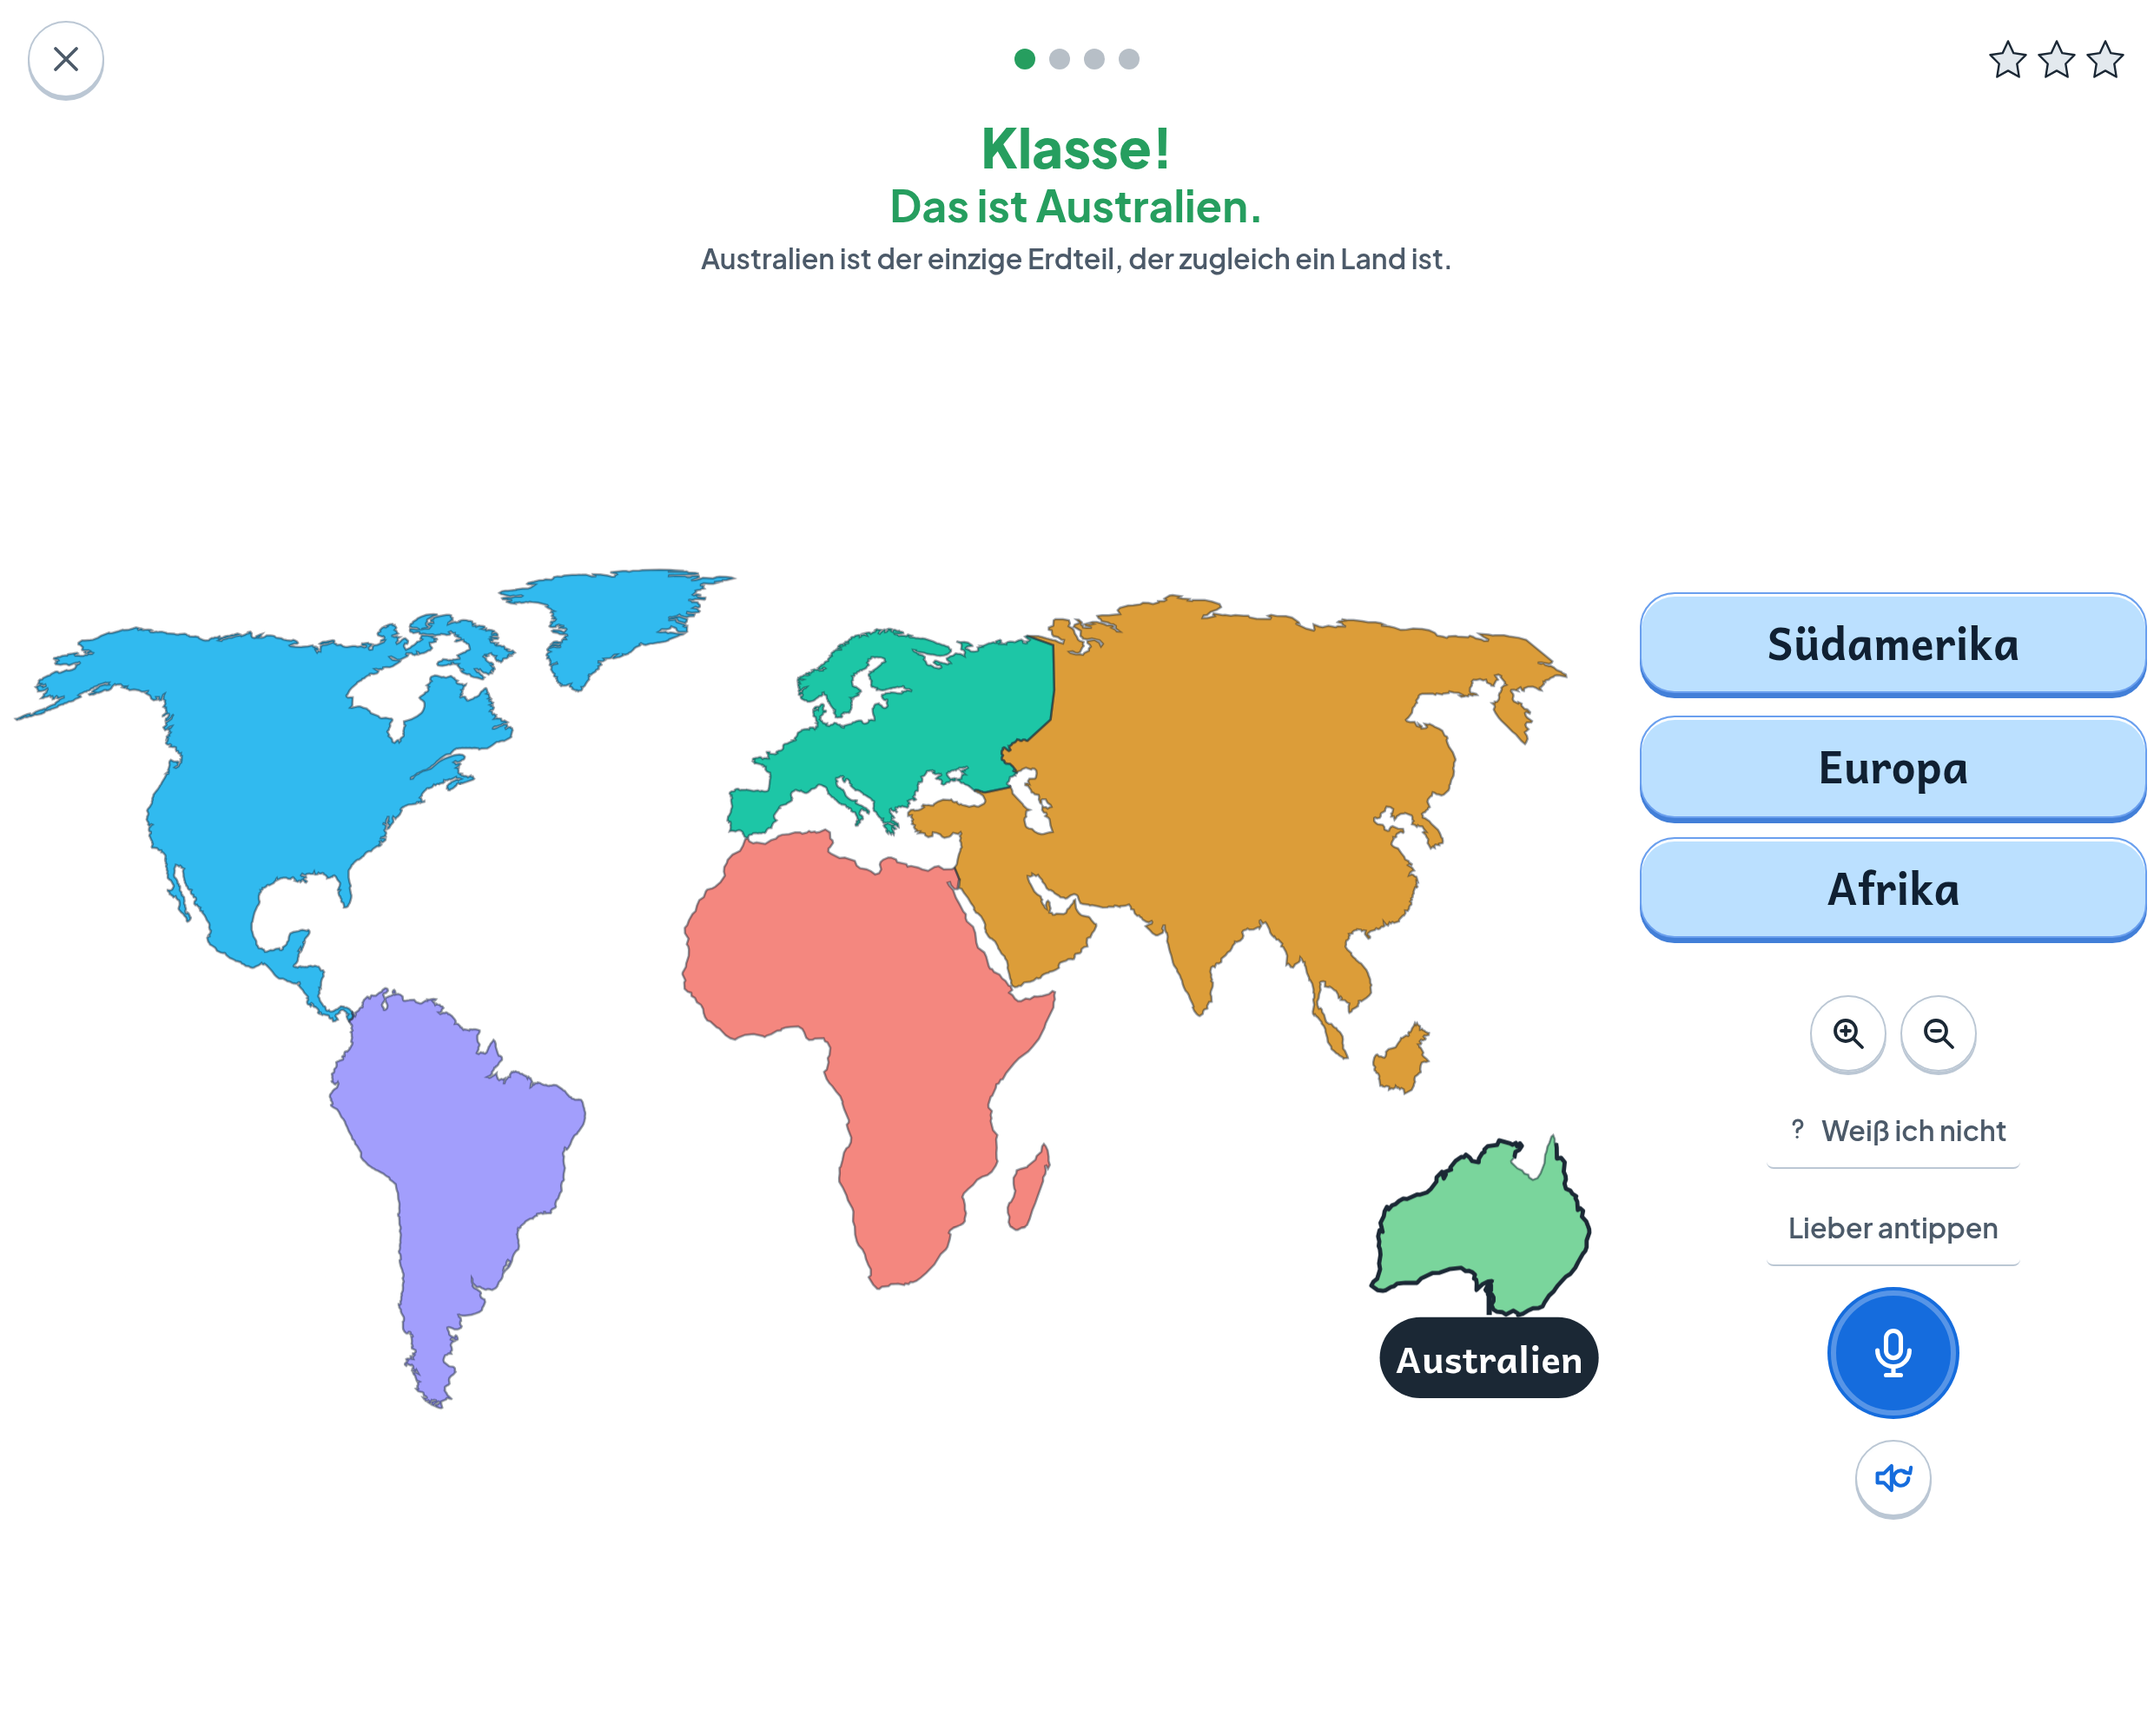
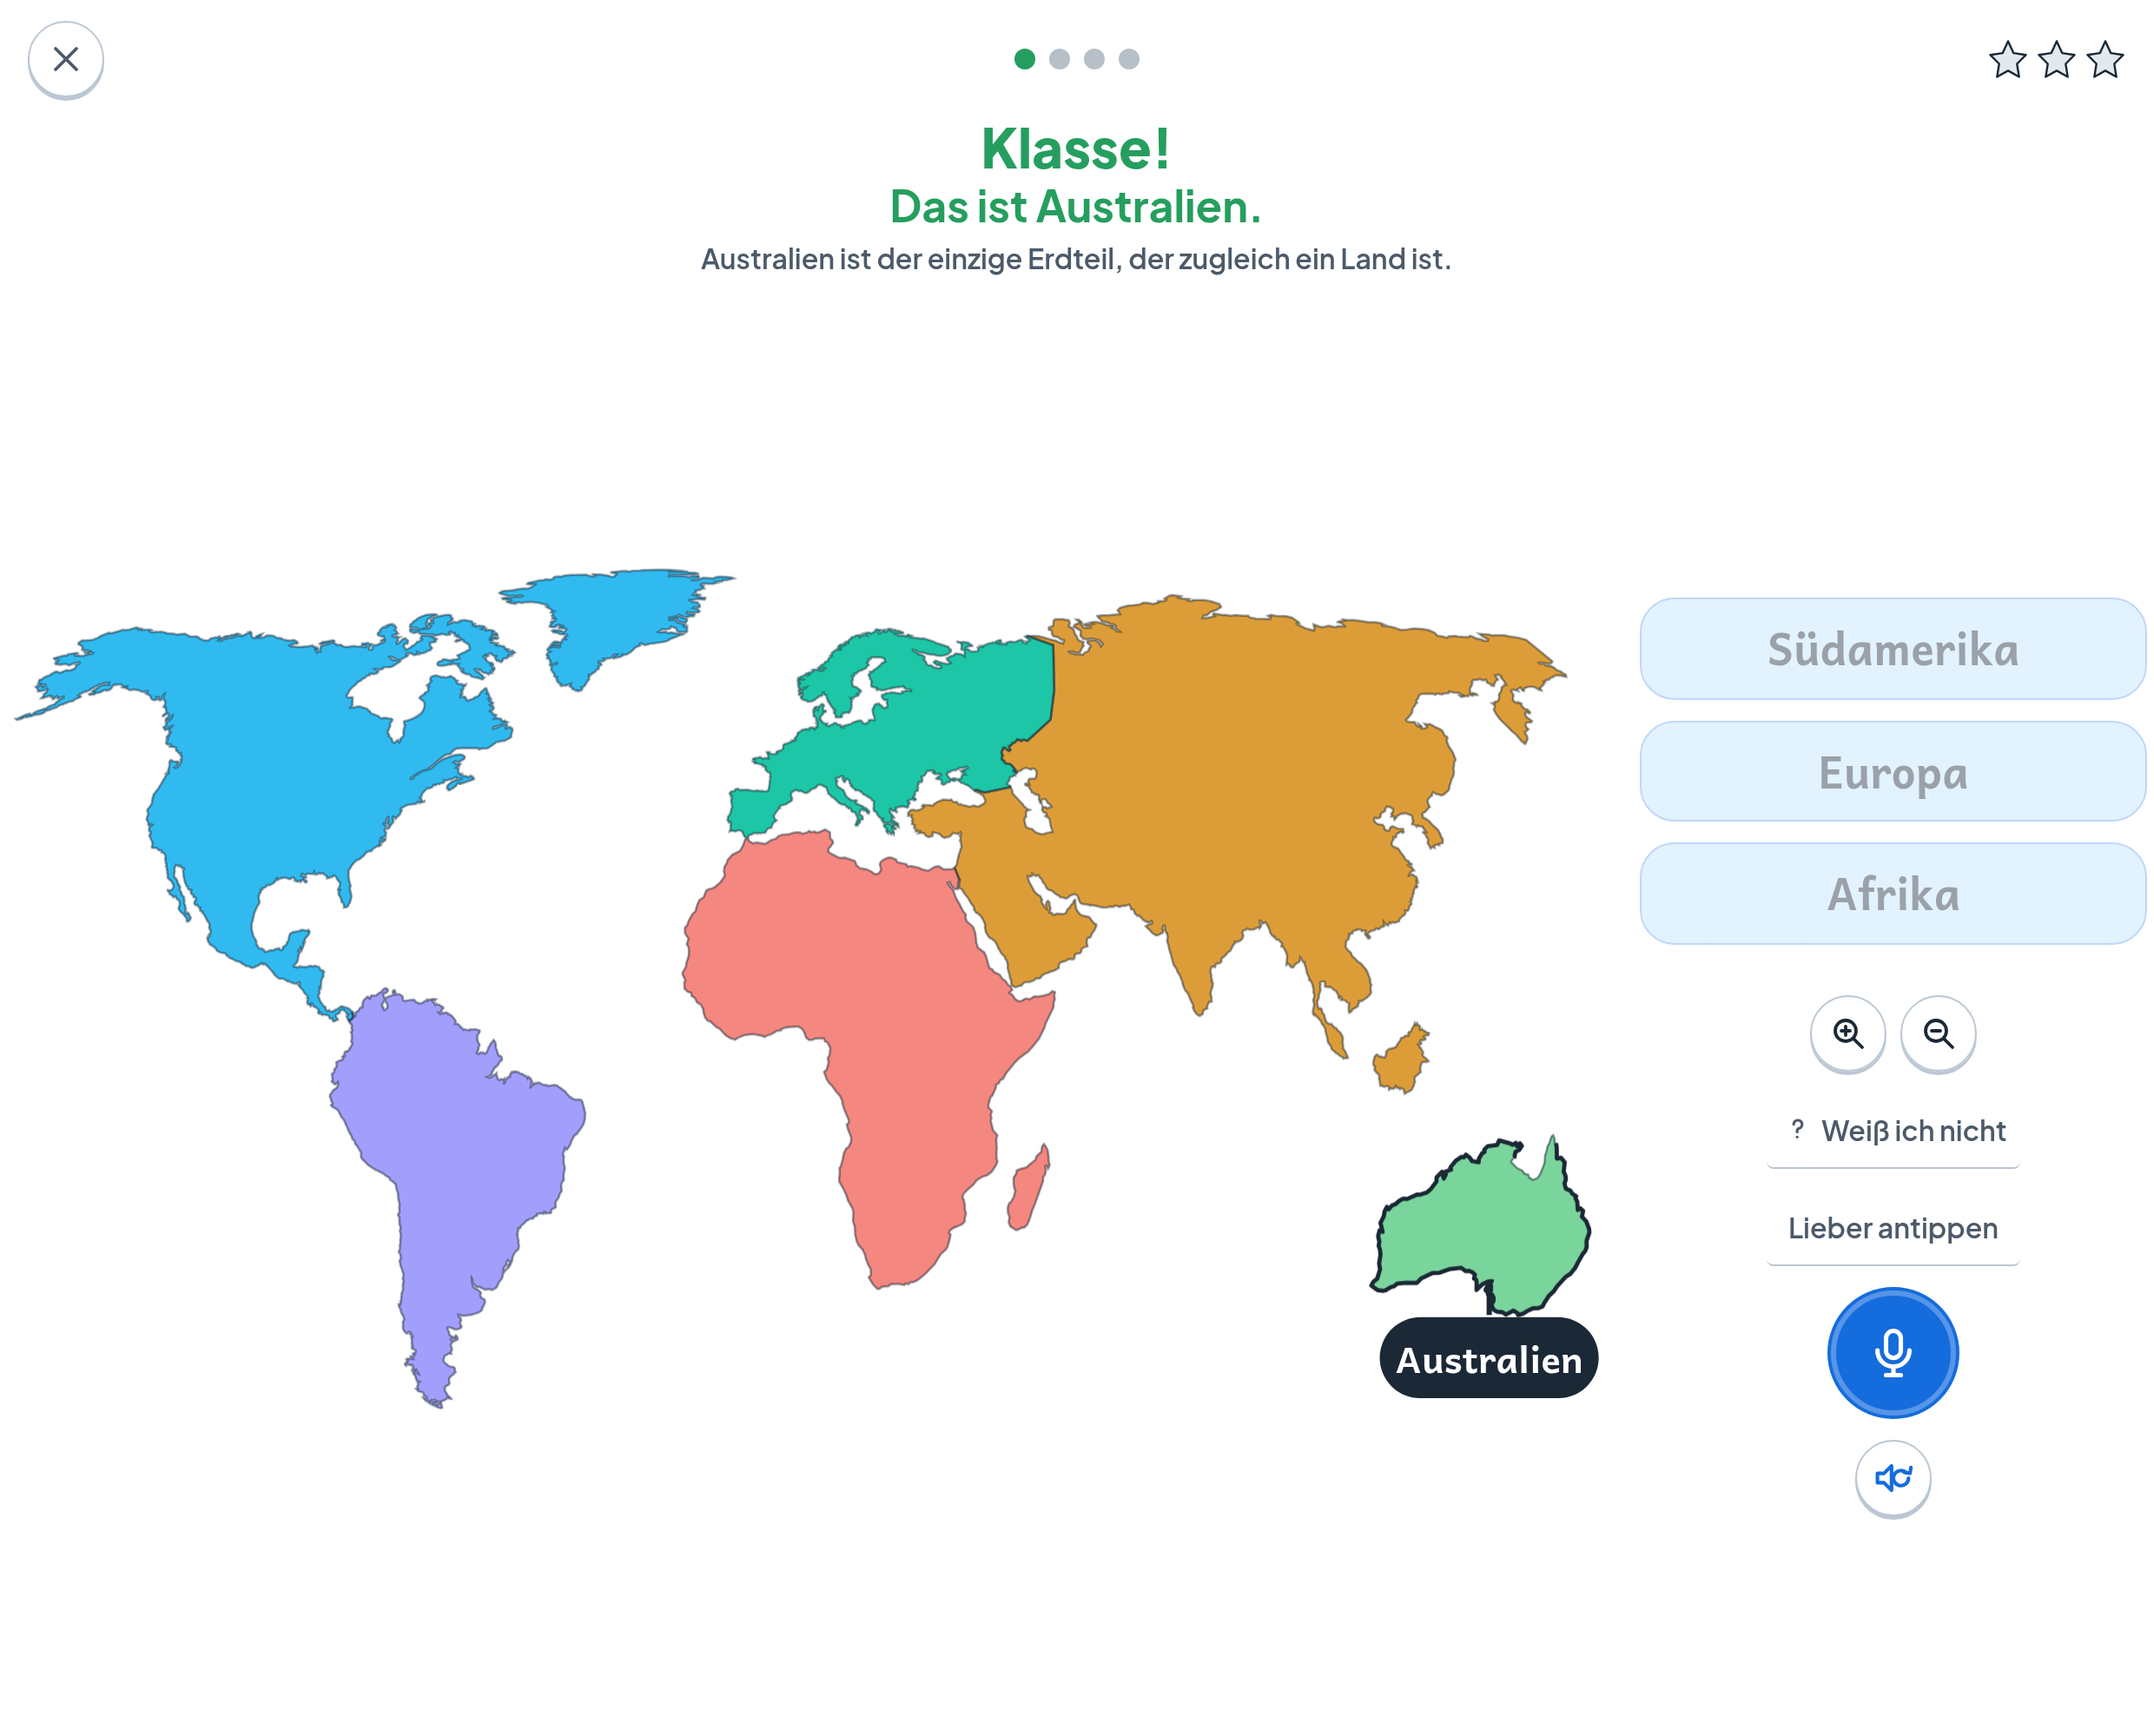
G18: was nach der Aufgabe stehen bleibt, ruht
Der Befund (QS14): nach der richtigen Antwort blieben die uebrigen
Antwortknoepfe stehen und sahen weiter antippbar aus. Gemessen im Lob,
mit einer voruebergehenden Diagnose im Rauchtest:

    Etikett              Klassen        Deckkraft  Griff
    Hessen               etikett            1      auto
    Mecklenburg-V.       etikett weg        0      none
    Sachsen              etikett         0,98      auto
    Sachsen-Anhalt       etikett         0,95      auto

Drei Knoepfe mit vollem Griff, voller Fuellung und voller 3-Punkt-Kante;
der Griff darauf verschwand still in `if (erledigt) return`. G17 hat den
Befund verschaerft - seit die Antworten kraeftiger sind, sind die toten
Knoepfe das Lauteste auf dem Bildschirm.

KEIN SCHALTER, SONDERN EINE ABLEITUNG. Das Markieren haengt nicht an
einem zusaetzlichen Aufruf, den man an einer der sieben Endstellen
vergessen kann, sondern am Setzen von `erledigt` selbst: `erledigt =
beendet(s)`. Wer eine achte Endstelle baut, muss `erledigt` setzen - und
faehrt damit hier durch. Ein Aufruf, den man vergessen kann, wird einmal
vergessen. Zurueckgesetzt wird nichts: jede Aufgabe baut ein frisches `s`.

Zurueckgenommen wird genau das, was „druecken" verspricht: die KANTE (ein
Knopf ohne Tiefe sieht nicht mehr nach Knopf aus) und ein Teil der Farbe.
Der Kasten bleibt, wo er ist - sonst springt die Liste und die Karte
wandert mitten im Lob.

DREI MESSFEHLER, alle von der Messung selbst gefunden:
[…]

Changed region(s): [[0.7452, 0.3396, 1.0, 0.5557]]

diff --git a/prototyp/spiel.js b/prototyp/spiel.js
@@ -31,6 +31,29 @@ if (stempel) stempel.textContent = `v${BAU.bau} · ${BAU.stand}`;
 const FL = ['--f1','--f2','--f3','--f4','--f5','--f6','--f7'];
 const VIER = ['--f1','--f3','--f5','--f6'];
 const el = (t,k,i)=>{ const e=document.createElement(t); if(k)e.className=k; if(i!==undefined)e.innerHTML=i; return e; };
+/* Die Aufgabe ist zu Ende (G18).
+ *
+ * Der Befund: nach der richtigen Antwort blieben die uebrigen
+ * Antwortknoepfe stehen und sahen weiter antippbar aus. Gemessen im Lob -
+ * drei Knoepfe, Deckkraft 1, `pointer-events:auto`, volle Fuellung und
+ * volle 3-Punkt-Kante. Ein Griff darauf verschluckte `if (erledigt)
+ * return` still. Drei Knoepfe, die etwas versprechen und nichts tun; seit
+ * G17, das die Antworten kraeftiger gemacht hat, sind sie ausserdem das
+ * Lauteste auf dem Bildschirm.
+ *
+ * KEIN SCHALTER, SONDERN EINE ABLEITUNG. Das Markieren haengt nicht an
+ * einem zusaetzlichen Aufruf, den man an einer der sieben Endstellen
+ * vergessen kann, sondern am Setzen von `erledigt` selbst: `erledigt =
+ * beendet(s)`. Wer eine achte Endstelle baut, muss `erledigt` setzen -
+ * und faehrt damit hier durch. Ein Aufruf, den man vergessen kann, wird
+ * einmal vergessen.
+ *
+ * Zurueckgesetzt wird nichts: jede Aufgabe baut in `spielschirm`,
+ * `rechenschirm` und `schreibschirm` ein frisches `s`. Das Merkmal geht
+ * mit dem alten Bildschirm.
+ *
+ * Gibt `true` zurueck, damit es an die Stelle der Zuweisung passt. */
+const beendet = (s) => { if (s) s.dataset.fertig = '1'; return true; };
 /* Der Zackenstern. EIN Pfad, zwei Verwendungen: der gezaehlte Stern im Kopf
    (`STERN`, mit Tintenkontur) und der Streustern auf Fionas Kachel (`MOTIV`,
    ohne). Regel 6 - was zweimal dasteht, veraltet einmal; hier waere es der
@@ -2857,7 +2880,7 @@ function rechenschirm(){
 
   function aufloesen(grund){
     if (erledigt) return;
-    erledigt = true;
+    erledigt = beendet(s);
     const fachVorher = Stand[ziel.id]?.fach ?? 1;
     Stand = Leitner.verschieben(Stand, ziel.id, false, Date.now());
     st.wie[st.i] = 'gezeigt';
@@ -2893,7 +2916,7 @@ function rechenschirm(){
     versuch++;
     const fachVorher = Stand[ziel.id]?.fach ?? 1;
     if (zahl === ziel.wert) {
-      erledigt = true;
+      erledigt = beendet(s);
       const neuerAufkleber = werten(ziel, 'richtig', versuch);
       kopfNachziehenIn(s);
       protokollieren('richtig', zahl, fachVorher);
@@ -3210,7 +3233,7 @@ function schreibschirm(){
   /** Vormachen statt ablehnen - nach drei Fehlversuchen oder auf Wunsch. */
   function aufloesen(){
     if (erledigt) return;
-    erledigt = true;
+    erledigt = beendet(s);
     const fachVorher = Stand[ziel.id]?.fach ?? 1;
     Stand = Leitner.verschieben(Stand, ziel.id, false, Date.now());
     st.wie[st.i] = 'gezeigt';
@@ -3237,7 +3260,7 @@ function schreibschirm(){
     const gelesen = meine.map(m => Schreiben.erkennen(m, satz));
     const stimmt = gelesen.every((e, i) => e.sicher && e.zeichen === folge[i]);
     if (stimmt) {
-      erledigt = true;
+      erledigt = beendet(s);
       const neuerAufkleber = werten(ziel, 'richtig', versuch);
       kopfNachziehenIn(s);
       protokollieren('richtig', gelesen.map(e => e.zeichen).join(''), fachVorher);
@@ -3709,7 +3732,7 @@ function spielschirm(){
    */
   function aufloesen(grund){
     if (erledigt) return;
-    erledigt = true;
+    erledigt = beendet(s);
     Stand = Leitner.verschieben(Stand, ziel.id, false, Date.now());
     st.wie[st.i] = 'gezeigt';
     kopfNachziehen();
@@ -4694,7 +4717,7 @@ function spielschirm(){
     }
 
     if (ergebnis!=='falsch') {
-      erledigt = true;
+      erledigt = beendet(s);
       const neuerAufkleber = werten(ziel, ergebnis, versuch);
       kopfNachziehen();
       if (ctx.etikett) ctx.etikett.classList.add('weg');
@@ -4729,7 +4752,7 @@ function spielschirm(){
        * Die Aufgabe endet, aber die Antwort steht NICHT da: was hier
        * fehlt, gehoert in die naechste Uebungsrunde, nicht in die
        * Pruefung. */
-      erledigt = true;
+      erledigt = beendet(s);
       // Der Leitner erfaehrt es: nicht gekonnt ist nicht gekonnt, ob mit
       // oder ohne Hilfen. Sonst waere ein Test eine Runde, die den
       // Lernstand nicht anfasst - und genau die Gegenstaende, die im Test

diff --git a/prototyp/vorlage.html b/prototyp/vorlage.html
@@ -1277,6 +1277,33 @@ body[data-zieht] .lupenknoepfe{pointer-events:none}
   white-space:nowrap;font-size:var(--s0);padding:var(--r3) var(--r5);
   min-height:0;width:auto;justify-content:center}
 .etikett.weg{visibility:hidden;pointer-events:none}
+/* Was nach der Aufgabe stehen bleibt, ruht (G18).
+ *
+ * Die uebrigen Antwortknoepfe waren im Lob nicht zu unterscheiden von
+ * denen, auf die man tippen soll: Deckkraft 1, voller Griff, volle Kante.
+ * Ein Griff darauf verschwand still in `if (erledigt) return`.
+ *
+ * Was hier zurueckgenommen wird, ist genau das, was „druecken" verspricht:
+ * die KANTE (ein Knopf ohne Tiefe sieht nicht mehr nach Knopf aus) und
+ * ein Teil der Farbe. Der Kasten bleibt, wo er ist - er soll nicht
+ * verschwinden, sonst springt die Liste und die Karte darunter wandert
+ * mitten im Lob.
+ *
+ * `pointer-events:none` ist dabei nicht die Reparatur, sondern die
+ * Ehrlichkeit: der Griff war schon vorher wirkungslos, jetzt sieht man
+ * es. Und der Uebergang laeuft ueber `--d-zustand`, das unter
+ * `prefers-reduced-motion` auf 1 ms steht - kein zweiter Schalter, den
+ * man vergessen kann. */
+[data-fertig] .etikett:not(.weg),
+[data-fertig] .zahl{opacity:.42;box-shadow:none;pointer-events:none;
+  transform:translateY(var(--kante));
+  /* `animation:none` ist hier kein Schoenheitsfehler, sondern der Grund,
+     warum die Zeile darueber ueberhaupt wirkt: die Etiketten laufen mit
+     `animation: herein ... both` ein, und ein Animationswert schlaegt in
+     der Kaskade eine gewoehnliche Deklaration. Ohne diese Zeile blieb die
+     Deckkraft auf 1 - gemessen, nicht vermutet: „Griff none, Kante nein,
+     Deckkraft 1". Der Griff war weg, das Aussehen nicht. */
+  animation:none}
 /* Falsch: das Etikett faehrt zurueck und WACKELT. Vorher passierte am
    Etikett gar nichts - es kam nur ein Satz darunter, und das Kind sah
    nicht, dass seine Antwort abgelehnt worden war. */

diff --git a/docs/Lernkiste-BACKLOG.md b/docs/Lernkiste-BACKLOG.md
@@ -197,7 +197,6 @@ Ein Blick, keine Suche. Die Blöcke darunter sagen, was jeder Punkt ist.
 | 8 | **B3r** Nachbarn · größer/kleiner · Puzzle · Steckbrief | Lea | mittel | mittel | je Form einzeln |
 | 9 | **Q24** „Kontinentumriss" ist eine Zusage | nur ich | gering | mittel | Weg 2 verworfen (Q25) |
 | 12 | **G14b** Der Aufkleber FLIEGT ins Forscherbuch statt zu winken | Fiona, Lea | gering | mittel | Lage zur Laufzeit |
-| 14 | **G18** Keine toten Knöpfe im Lob | alle | gering | klein | — |
 | 16 | **QS3** „Ton als Gegenstand" braucht ein Tor, sobald Englisch steht | nur ich | mittel | klein | E3 |
 | 17 | **D1** Ein Begleiter | Fiona | mittel | groß | Bilder — also ihr |
 
@@ -4331,6 +4330,76 @@ Befundes, und die Probe sagte „beweist nichts". Der Anker steht jetzt als
 Kommentar hinter dem Eingriff, und `an:` prüft die Wirkung statt des Textes.
 
 **Was das je Runde spart: 13–19 Minuten, ohne dass eine Prüfung wegfällt.**
+
+### G18 · Was nach der Aufgabe stehen bleibt, ruht — GEFAHREN (v368)
+
+Der Befund (QS14): nach der richtigen Antwort blieben die übrigen
+Antwortknöpfe stehen und sahen weiter antippbar aus. **Gemessen im Lob**,
+mit einer vorübergehenden Diagnose im Rauchtest:
+
+| Etikett | Klassen | Deckkraft | Griff |
+|---|---|---|---|
+| Hessen | `etikett` | 1 | **auto** |
+| Mecklenburg-V. (gewählt) | `etikett weg` | 0 | none |
+| Sachsen | `etikett` | 0,98 | **auto** |
+| Sachsen-Anhalt | `etikett` | 0,95 | **auto** |
+
+Drei Knöpfe mit vollem Griff, voller Füllung und voller 3-Punkt-Kante; der
+Griff darauf verschwand still in `if (erledigt) return`. **G17 hat den
+Befund verschärft** — seit die Antworten kräftiger sind, sind die toten
+Knöpfe das Lauteste auf dem Bildschirm.
+
+**Kein Schalter, sondern eine Ableitung.** Das Markieren hängt nicht an
+einem zusätzlichen Aufruf, den man an einer der sieben Endstellen
+vergessen kann, sondern am Setzen von `erledigt` selbst:
+`erledigt = beendet(s)`. Wer eine achte Endstelle baut, muss `erledigt`
+setzen — und fährt damit hier durch. Zurückgesetzt wird nichts: jede
+Aufgabe baut ein frisches `s`.
+
+Zurückgenommen wird genau das, was „drücken" verspricht: die **Kante**
+(ein Knopf ohne Tiefe sieht nicht mehr nach Knopf aus) und ein Teil der
+Farbe. Der Kasten bleibt, wo er ist — sonst springt die Liste und die
+Karte wandert mitten im Lob.
+
+#### Drei Messfehler, alle von der Messung selbst gefunden
+
+1. **`pointer-events` war weg, das Aussehen nicht.** Die Etiketten laufen
+   mit `animation: herein … both` ein, und ein **Animationswert schlägt in
+   der Kaskade eine gewöhnliche Deklaration**. Ohne `animation:none` blieb
+   die Deckkraft auf 1. Ohne die Messung hätte ich es für erledigt
+   gehalten.
+2. **Zu früh gemessen.** Die erste Fassung las die Etiketten mitten in der
+   gestaffelten Einlaufanimation: „0 von 4 greifbar", Deckkraft 0. Die
+   Messung war rot, die App war in Ordnung.
+3. **Zu spät gemessen.** Die zweite Fassung wartete bis zu drei Sekunden
+   auf den Ruhezustand — mit `?flott` dauert das Lob 900 ms. Gemessen
+   wurden vier frische Etiketten der *nächsten* Aufgabe, die natürlich
+   wach waren. Die Messung meldete den Fehler, den sie selbst gebaut
+   hatte.
+
+Gewartet wird jetzt auf die **Kante** und nicht auf eine Deckkraftschwelle:
+die Deckkraft unterschreitet 0,6 schon auf zwei Dritteln des Weges, und
+dann meldete die Messung „Kante ja" über einen Übergang, der noch lief.
+
+#### Das Tor prüft in beide Richtungen
+
+Die erste Hälfte ist die wichtigere: **während** der Aufgabe müssen die
+Etiketten greifbar sein. Ohne sie wäre die Prüfung durch Knöpfe zu
+erfüllen, die *immer* ruhen — also durch ein Spiel, das man nicht spielen
+kann. Dazu eine dritte Zusage: im Lob muss genau ein Etikett auf `weg`
+stehen, sonst misst die Prüfung die nächste Aufgabe statt der gelösten.
+
+Gegenprobe 300 greift die **subtile** Hälfte an und nimmt `animation:none`
+weg. Ihr Anker nennt die Zeile mit ihrem Vorgänger: `animation:none}`
+allein steht sechsmal im Bündel, und ein Anker, der auch woanders zutrifft,
+fängt das Verschwinden nicht.
+
+**Offen, aus dem Code geschlossen und nicht gemessen (G18b):** das
+**Mikrofon** ist im Lob vermutlich ebenso tot — sein Ergebnis läuft durch
+denselben `erledigt`-Wächter. Es ruht bewusst *nicht* mit, weil ich nicht
+gemessen habe, welche Knöpfe der Werkzeugspalte im Lob noch etwas tun
+(„noch einmal hören" könnte lebendig sein). Das ist eine eigene Messung,
+keine Zeile hier.
 
 ### QS10 · Der naechtliche Probenlauf verliert seinen Nachweis bei jedem Push — GEFLICKT
 
